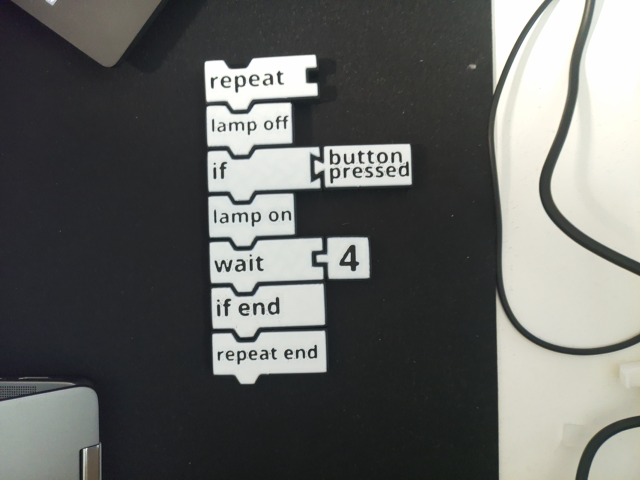
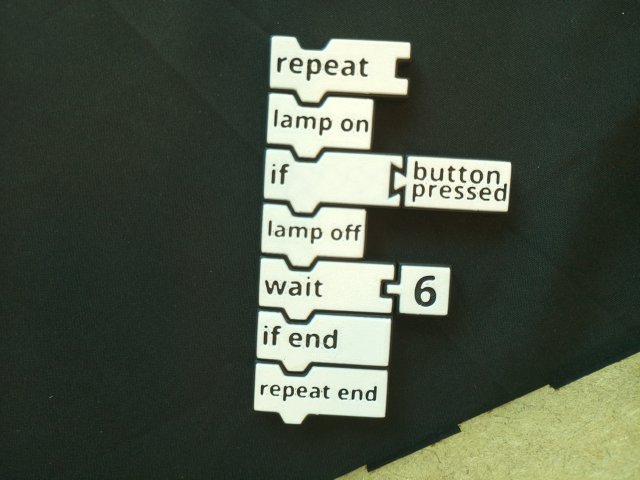
Refactor logging in autostart.py to use print statements, update Tensor.csv with new data, modify handle_pausiere function in codeCompile.py for better handling of None values, and remove final.py as it is no longer needed.

diff --git a/Additional/autostart.py b/Additional/autostart.py
@@ -14,23 +14,23 @@ button = Button(2)
 current_process = None
 
 def log(message):
-    with open("autostart_log.txt", "a") as log_file:
-        log_file.write(f"{time.strftime('%Y-%m-%d %H:%M:%S')} - {message}\n")
+    with open("autostart_print.txt", "a") as print_file:
+        print_file.write(f"{time.strftime('%Y-%m-%d %H:%M:%S')} - {message}\n")
 
-log(f"Current working directory: {os.getcwd()}")
+print(f"Current working directory: {os.getcwd()}")
 
 def run_compile():
     try:
         os.system(f"python3 {file_path}")
     except Exception as e:
-        log(f"Fehler beim Ausführen von {file_path}: {e}\n")
+        print(f"Fehler beim Ausführen von {file_path}: {e}\n")
 
 def terminate_subprocess():
     script_name = "/home/aicam/Desktop/BFT/code/BFT/final.py"
     for proc in psutil.process_iter(['pid', 'name', 'cmdline']):
         try:
             if proc.info['cmdline'] and script_name in proc.info['cmdline']:
-                log(f"Beende Subprozess: {proc.info['cmdline']}")
+                print(f"Beende Subprozess: {proc.info['cmdline']}")
                 proc.kill()
                 time.sleep(1)
         except (psutil.NoSuchProcess, psutil.AccessDenied):
@@ -39,17 +39,17 @@ def terminate_subprocess():
 def toggle_process():
     global current_process
     if current_process and current_process.is_alive():
-        log("Stoppe alten Prozess...")
+        print("Stoppe alten Prozess...")
         terminate_subprocess()
         current_process.terminate()
         current_process.join()
-    log("Starte neuen Prozess...")
+    print("Starte neuen Prozess...")
     current_process = Process(target=run_compile)
     current_process.start()
 
 
 button.when_pressed = toggle_process
 
-log("autostart.py mit multiprocessing gestartet...")
+print("autostart.py mit multiprocessing gestartet...")
 while True:
     time.sleep(1)

diff --git a/BFT/codeCompile.py b/BFT/codeCompile.py
@@ -190,10 +190,8 @@ def handle_lampe_aus(block, blocks, output_lines, indentation_level):
 
 def handle_pausiere(block, blocks, output_lines, indentation_level):
     paus_count = find_adjacent_block(block, blocks, mode="count", tolerance=50, vertical_tolerance=50)
-    if paus_count == "unendlich":
+    if paus_count == "unendlich" or paus_count == None:
         paus_count = "1"
-    elif paus_count == None:
-        paus_count = "0"
     output_lines.append(f"{get_indentation(indentation_level)}sleep({paus_count})\n")
 
     return output_lines
